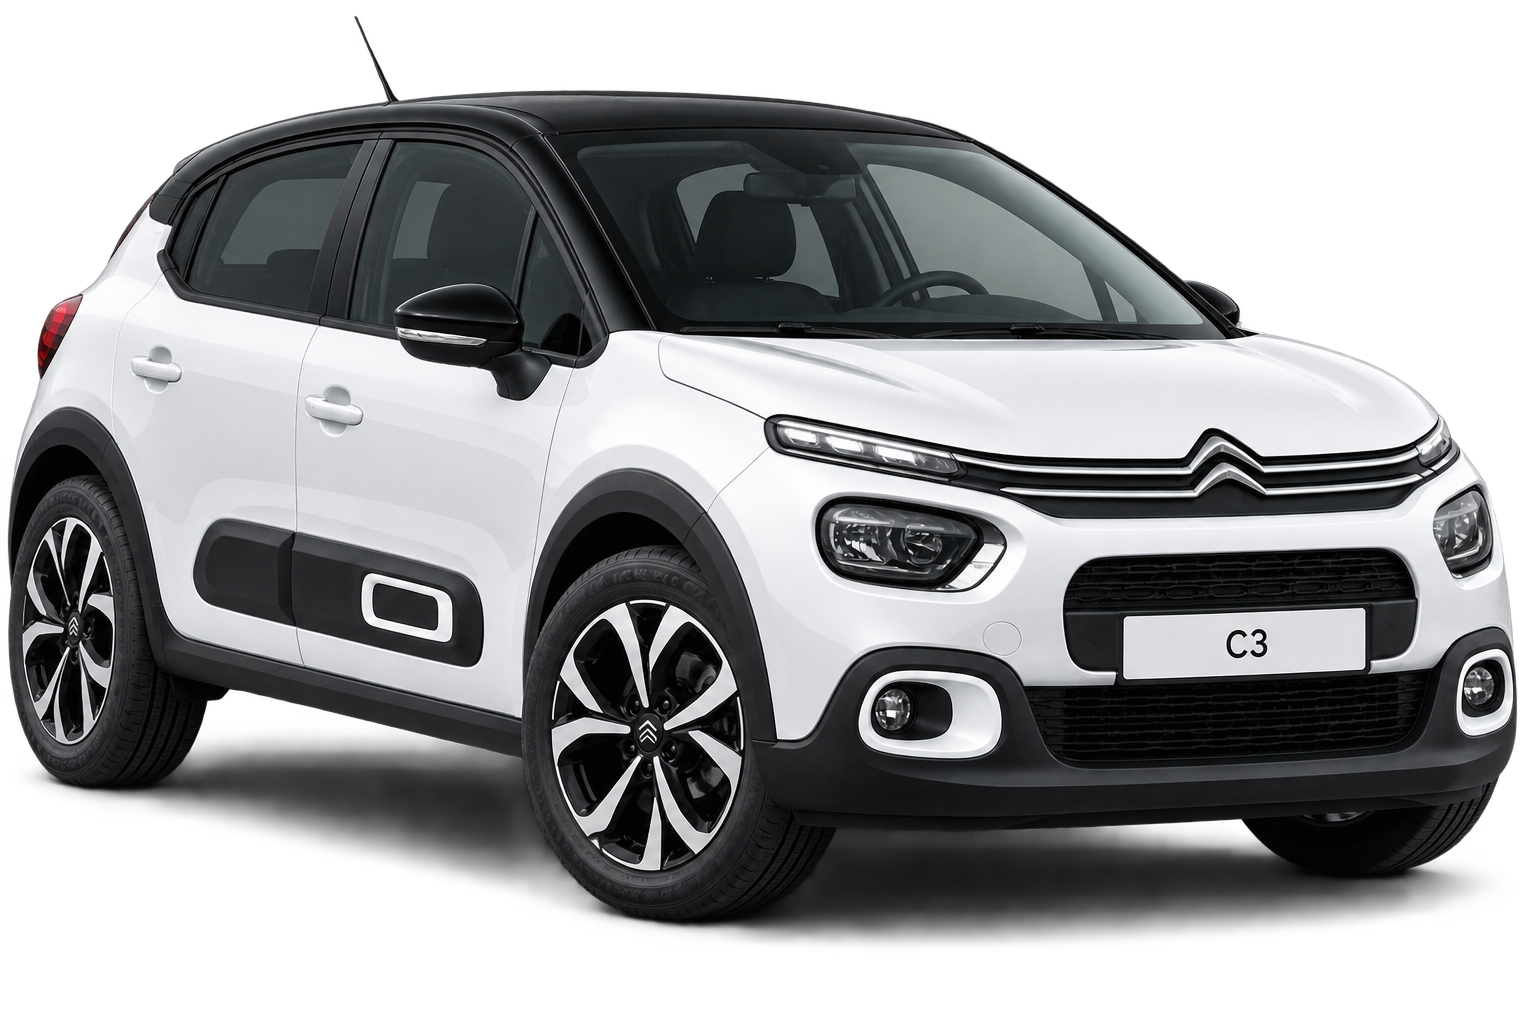
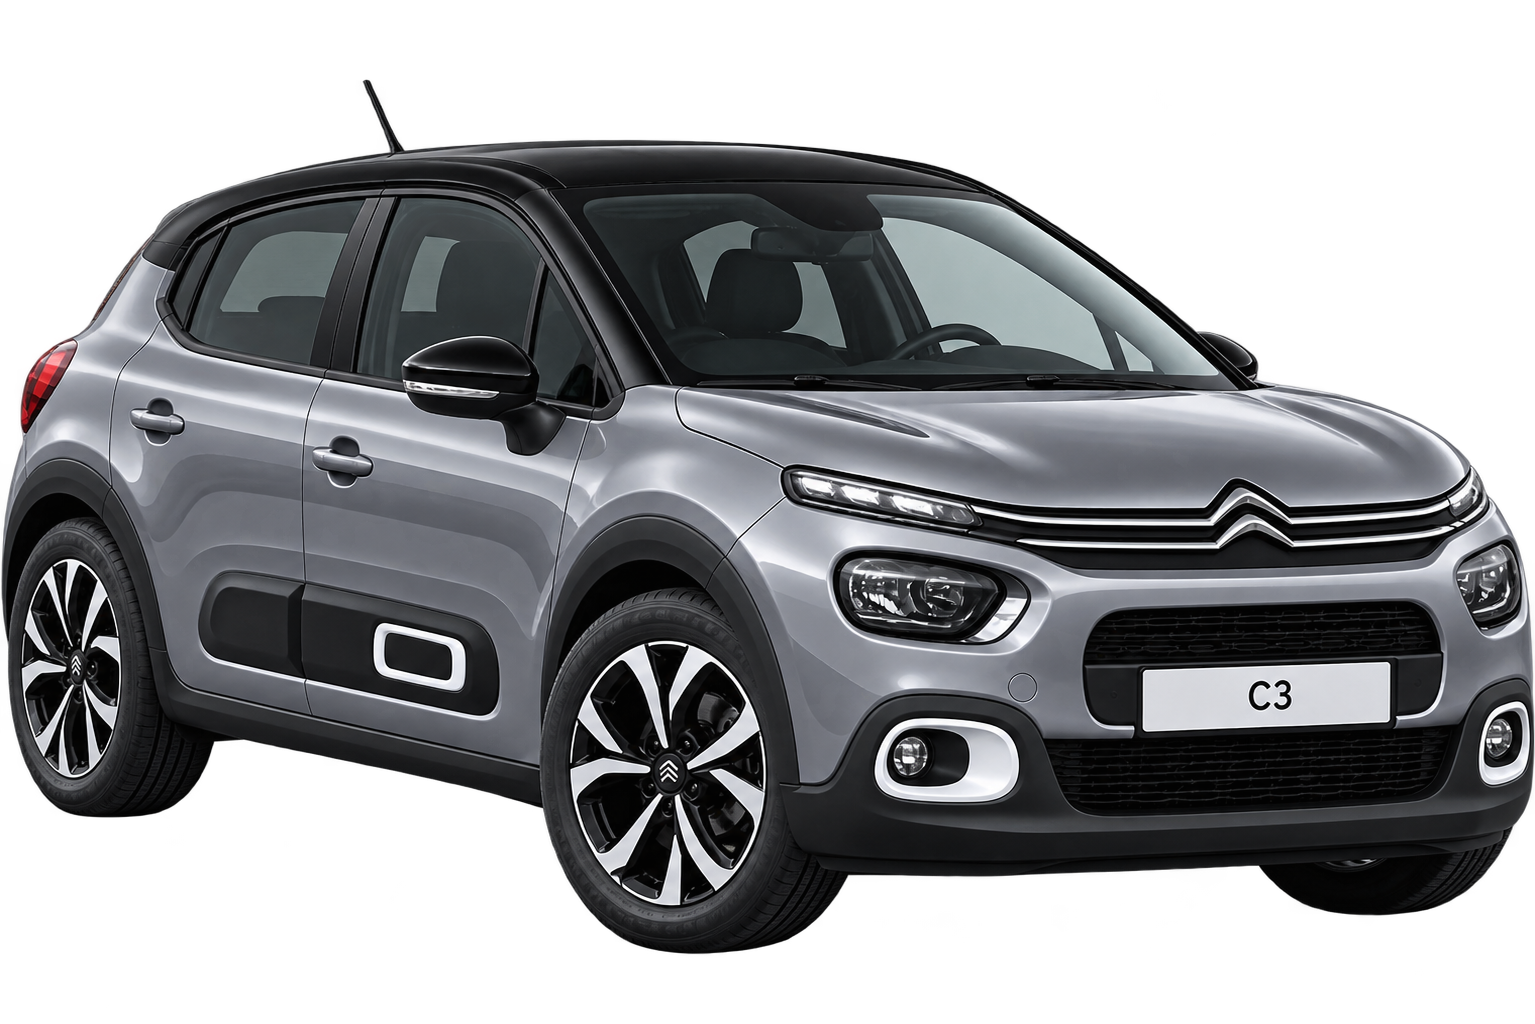
Switch C3, Aircross, Captur, Vito, and Viano photos to the silver cutouts.

diff --git a/index.html b/index.html
@@ -525,7 +525,7 @@ very special.</h1>
 
           <article class="car-card reveal" data-category="car" data-car-id="captur" data-vehicle="Renault Captur">
             <div class="car-card__media">
-              <img src="assets/captur-white.png" alt="Renault Captur for rent at VS Rent a Car Skopje" width="640" height="400" />
+              <img src="assets/captur-silver.png" alt="Renault Captur for rent at VS Rent a Car Skopje" width="640" height="400" />
             </div>
             <div class="car-card__body">
               <h3>Renault Captur</h3>

diff --git a/script.js b/script.js
@@ -25,7 +25,7 @@ const LOCATIONS = {
 const FLEET = {
   captur: {
     name: "Renault Captur",
-    image: "assets/captur-white.png",
+    image: "assets/captur-silver.png",
     price: 39,
     seats: 5,
     doors: 5,
